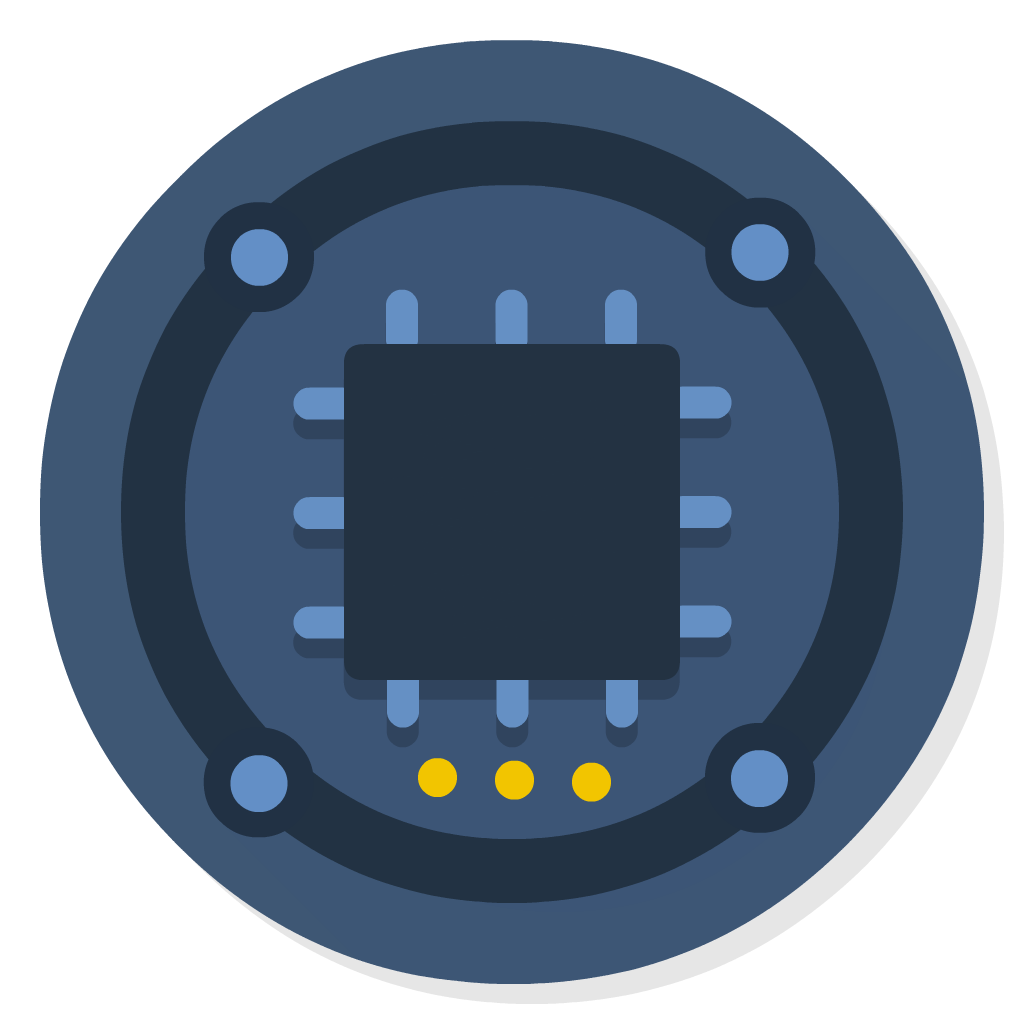
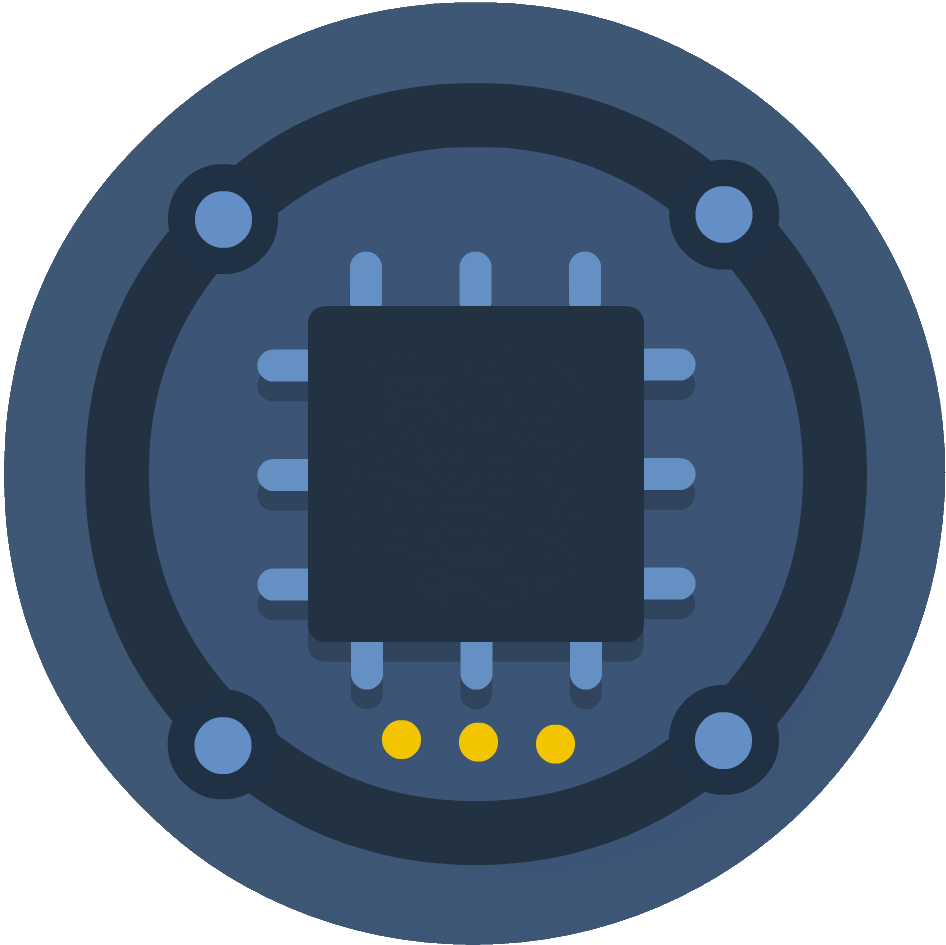
Made the background of some images  transparency. Little style update for the FileModule. Add some default todos to the test data.

Changed region(s): [[0.0, 0.0, 1.0, 1.0]]

diff --git a/src/main/webapp/VAADIN/themes/mytheme/mymodule.scss b/src/main/webapp/VAADIN/themes/mytheme/mymodule.scss
@@ -6,13 +6,6 @@
 @mixin mymodule {
   @include valo;
 
-
-  .moduleName {
-    font-size: $moduleNameSize;
-    font-weight: bold;
-    color: $colorFont;
-  }
-
   .moduleIcon {
     width: 100px;
     height: 100px;
@@ -63,6 +56,15 @@
     border: $borderAndroidDark $borderSize solid;
     border-radius: $borderRadius;
     .v-label {
+      color: $colorFont;
+    }
+
+    .v-caption {
+      padding-top: $modulePaddingBig;
+      color: $colorFont;
+    }
+
+    .gwt-FileUpload {
       color: $colorFont;
     }
   }
@@ -133,23 +135,12 @@
   .borderlessButton {
     border: none;
     background: transparent;
+    font-weight: bold;
     color: $colorFont;
   }
 
   .testBorder {
     border: $colorBrand 3px solid;
-  }
-
-  .upload {
-    .v-label {
-      color: $colorFont;
-    }
-
-    .v-nativebutton {
-      background: $colorFont;
-      color: $colorModule;
-      font-size: 30px;
-    }
   }
 
 }

diff --git a/src/main/java/util/Master.java b/src/main/java/util/Master.java
@@ -107,8 +107,18 @@ public class Master {
         allCourse.forEach(c -> c.setImage(loadImage(c)));
         allAchievements.forEach(a -> a.setImage(loadImage(a)));
 
+        //Erstelle To do's
+        ArrayList<String> todos = new ArrayList<>();
+        todos.add("Das letzte Übungsblatt bearbeiten, um Erfolg zu erhalten.");
+        todos.add("Eine andere wirklich tolle und anspruchsvolle Arbeit erledigen.");
+        todos.add("Lorem ipsum iwas Textum omine Lambda lasgom.");
+        todos.add("Muuuuh.");
+
         //Put it together
-        allUser.forEach(u -> allCourse.forEach(c -> u.addCourse(c)));
+        allUser.forEach(u -> allCourse.forEach(c -> {
+            u.addCourse(c);
+            u.setTodos(todos, c.getName());
+        }));
 
         todoTest(Master.allUser.get(0));
     }
